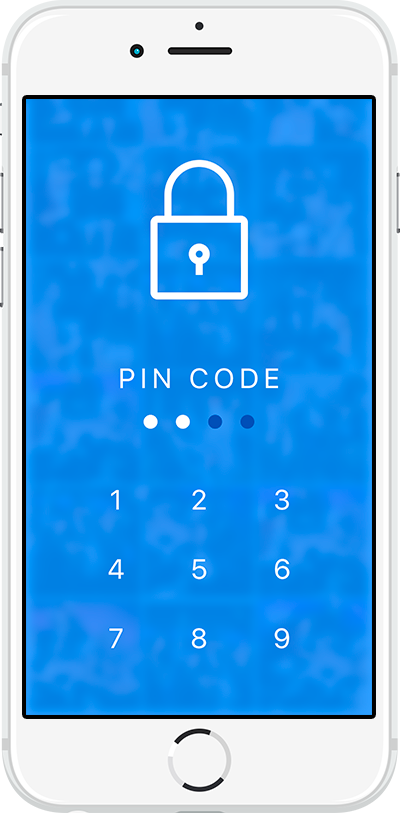
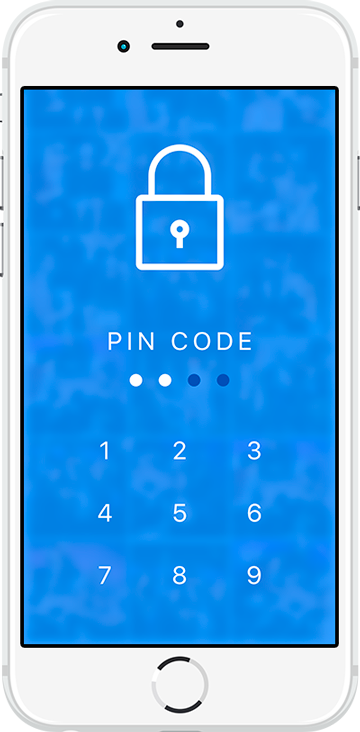
commit

diff --git a/css/style.css b/css/style.css
@@ -26,29 +26,29 @@ a, a:hover {
 
 .phone {
   position: absolute;
-  top: 405px;
-  left: 30px;
+  top: 1100px;
+  left: 75px;
 }
 .icon {
   position: absolute;
-  top: 405px;
-  left: 175px;
+  top: 1100px;
+  left: 500px;
 }
 .words {
   position: absolute;
-  top: 503px;
-  left: 175px;
+  top: 1380px;
+  left: 500px;
   width: 100%;
 }
 .special-words__item_title h3 {
-  font: 30px/35px Catamaran, sans-serif;
+  font: 92px/103px Catamaran, sans-serif;
   color: #fff;
   text-transform: uppercase;
 }
 .special-words__item_content p {
-  font: 25px/30px Rubik, sans-serif;
+  font: 80px/46px Rubik, sans-serif;
   color: #ffa000;
-  margin-top: 8px;
+  margin-top: 50px;
 }
 
 @media only screen and (min-device-width : 320px) and (max-device-width : 480px) and (orientation : portrait) {

diff --git a/index.html b/index.html
@@ -11,13 +11,13 @@
    <body>
     <div class="wrap">
       <div class="wrap__box">
-        <img id='myBg' src="img/bg-ipad.png" alt="">
+        <img id='myBg' src="img/bg.png" alt="">
       </div>
       <div class="phone">
-        <img id='myPhone' src="img/phone-ipad.png" alt="">
+        <img id='myPhone' src="img/phone.png" alt="">
       </div>
       <div class="icon">
-        <img id='myIcon' src="img/icon-ipad.png" alt="">
+        <img id='myIcon' src="img/icon.png" alt="">
       </div>
       <div class="words">
         <div class="special-words">
